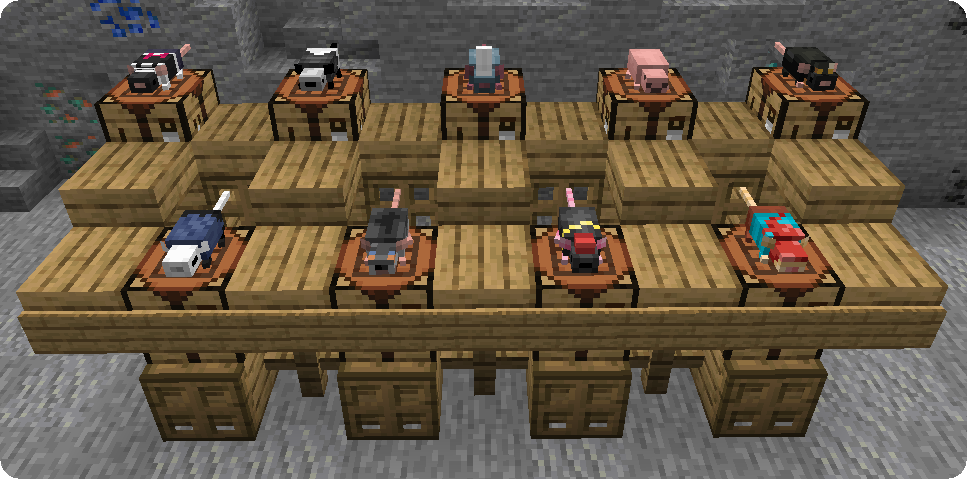
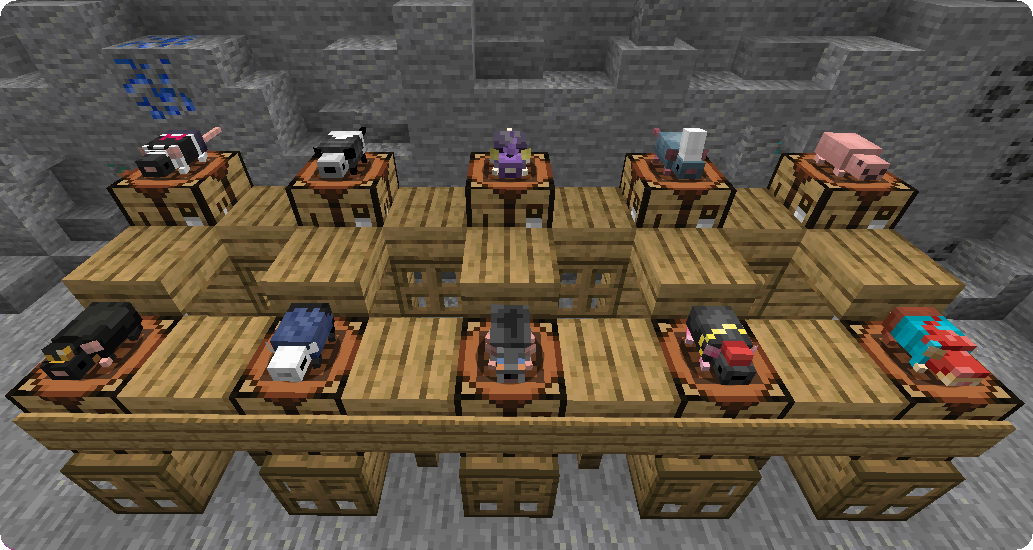
Update the Mischief wiki
Added wild rats, new breeding mechanics and accessory updates

diff --git a/wiki/rats-mischief.md b/wiki/rats-mischief.md
@@ -43,9 +43,19 @@ On the 19th of July, RAT's (doctor4t) birthday, as well as during the following 
 
 ### Types
 
-Rats can spawn in eight different types and also have a few special types that you can acquire by renaming your rats with a nametag.
+##### Natural Rat Types
 
-##### Natural Types
+Naturally spawning rats will always be either a Wild Rat or a Golden Rat.
+
+- **Wild Rat**
+- **Golden** (spawn chance of 1 in 150)
+
+![Natural Rat Types](rats-mischief/NaturalRatTypes.png) 
+
+##### Pet Rat Types
+
+Pet rats can only be obtained by breeding wild rats. Their offsprings will then be 1 of the 7 pet rat types:
+
 - **Albine**
 - **Grey**
 - **Husky**
@@ -53,38 +63,51 @@ Rats can spawn in eight different types and also have a few special types that y
 - **Light Brown**
 - **Chocolate**
 - **Black**
-- **Golden** (spawn chance of 1 in 150)
 
-![Natural Rat Types](rats-mischief/NaturalRatTypes.png){: .wiki}
+![Pet Rat Types](rats-mischief/PetRatTypes.png)
 
-##### Special Types
+##### Special Rat Types
+
+Renaming rats with the following names will give them a new, special appearance both with and without [elytrat](#elytrats).
 
 - **doctor4t** (mod creator)
+
 - **Arathain** (texture artist)
 
+- **Astron/Astronyu** (artist)
+
 - **Remy** (Ratatouille)
+
 - **Ratater** (Botania)
+
 - **Jorato** (JoJo's Bizarre Adventure)
+
 - **Hollow Rat** (Hollow Knight)
+
 - **Jerma** (Jermas Rat Movie)
+
 - **Biggie Cheese**
+
 - **Rateline** (Madeline, Celeste)
-- **Rat Kid** (with 16 variants for each minecraft dye, can be redyed just like sheep, A Hat in Time)
 
-![Special Rat Types](rats-mischief/SpecialRatTypes.png){: .wiki}
+- **Rat Kid** (A Hat in Time)
 
-![Rat Kid Types](rats-mischief/RatKidTypes.png){: .wiki}
+  Rat Kids are a special rat type as they can be dyed just like sheep in order to variate their skins, resulting in 16 different versions. Breeding 2 Rat Kids will also spawn a new, unnamed Rat Kid instead of a normal pet rat.
+
+![Special Rat Types](rats-mischief/SpecialRatTypes.png)
+
+![Rat Kid Types](rats-mischief/RatKidTypes.png)
 
 ### Elytrats
 
 Elytrats are a special rat variant, acquired by equipping rats with the elytrat item, crafted as shown below. Equip/unequip a rat by simply shift-using the rat with the elytrat/bare fist. Normal rats will also equip elytrats upon picking them up from the floor.
 
-![Elytrat Recipe](rats-mischief/ElytratRecipe.png){: .wiki}
+![Elytrat Recipe](rats-mischief/ElytratRecipe.png)
 
 Elytrats can and will fly to attack enemies and to follow you on your airborne adventures! Just as any other rat they can be picked up with rat pouches. Elytrats also feature custom elytra textures for special rat variants and the golden rat.
 
-![Elytrat](rats-mischief/Elytrat.png){: .wiki}
-![Elytrat Formation](rats-mischief/ElytratFormation.png){: .wiki}
+![Elytrat](rats-mischief/Elytrat.png)
+![Elytrat Formation](rats-mischief/ElytratFormation.png)
 
 ### Accessories
 
@@ -92,33 +115,33 @@ Elytrats can and will fly to attack enemies and to follow you on your airborne a
 
 When appearing naturally in an empty village or being bred, rats have a 5% chance to spawn with staves in their possession. These staves can be obtained by taming the rats possessing them if they aren't already and are useful to make the rats perform specific tasks. Each staff use orders the rats to execute the corresponding order for 15 seconds, items acquired by the rats will be brought to you and required items can be dropped on the floor for them.
 
-- **Harvest Staff:** Rats harvest any mature crop and replant any cultivatable item on farmland tiles.
+- **Harvest Staff:** Rats harvest any mature crop and replant any cultivatable item on farmland tiles. If given Bone Meal, they will also fertilize crops!
 - **Love Staff:** Rats breed all the animals around them (including themselves) as long as they have the corresponding food.
 - **Collection Staff:** Can be used on blocks to make rats break the corresponding material they come across. Rats can break blocks with a hardness of 1 plus 1 per level of strength that is applied to them. Haste effects boost their mining speed by 20% per level of haste. This order is cancelled by using the staff on the air.
 
 #### Rat Pouches
 
-Rat pouches can be used to quickly gather rats back. Using a pouch on a rat will put that rat inside the pouch. Shift-using an empty rat pouch will gather all rats that the pouch can hold in the vicinity. Shift-using a filled rat pouch releases all rats inside it.
+Rat pouches can be used to quickly gather rats back. Using a pouch on a rat will put that rat inside the pouch. Shift-using an empty rat pouch will gather all rats that the pouch can hold in a 16 block radius. Shift-using a filled rat pouch releases all rats inside it.
 
 Pouches can be crafted like bundles with leather, twisted vines and popped chorus fruit, to produce respectively pouches with a capacity of 5, 10 and 20 rats.
 Rats stored in Pouches won't age, meaning they will keep status effects, health, their variant and names.
 
-![Leather Pouch Recipe](rats-mischief/LeatherPouchRecipe.png){: .wiki}
+![Leather Pouch Recipe](rats-mischief/LeatherPouchRecipe.png)
 
-![Twisted Pouch Recipe](rats-mischief/TwistedPouchRecipe.png){: .wiki}
+![Twisted Pouch Recipe](rats-mischief/TwistedPouchRecipe.png)
 
-![Purpur Pouch Recipe](rats-mischief/PurpurPouchRecipe.png){: .wiki}
+![Purpur Pouch Recipe](rats-mischief/PurpurPouchRecipe.png)
 
 
 #### Mask of Rat
 
-Obtained by either purchasing it for 40 emeralds from a wandering trader, by breeding rats and succeeding on a 0.5% chance of a baby rat wearing it or by killing doctor4t on a multiplayer server, this item has a protection value of just one armour bar but the enchantibility of gold.
+Obtained by either purchasing it for 40 emeralds from a wandering trader, breeding rats and succeeding on a 0.5% chance of a baby rat wearing it or killing doctor4t on a multiplayer server, this item has a protection value of just one armor bar but the enchantibility of gold.
 
-The person wearing this mask will not be able to harm wild or tamed rats and all their status effects as well as the armour and enchantments of the mask will be provided to all tamed rats. This includes positive and negative status effects such as invisibility and hunger.
+The person wearing this mask will not be able to harm wild or tamed rats and all their status effects as well as the armor and enchantments of the mask will be provided to all tamed rats. This includes positive and negative status effects such as invisibility and hunger.
 
 This item can be repaired in an anvil using phantom membranes.
 
-![Mask Of Rat](rats-mischief/MaskOfRat.png){: .wiki}
+![Mask Of Rat](rats-mischief/MaskOfRat.png)
 
 ## FAQ
 
@@ -128,7 +151,7 @@ This item can be repaired in an anvil using phantom membranes.
 
 #### ISN'T THis jUST a RAtS rIp-OFF??
 
-**No**: I have no ties  with Rats, and this mod is a completely different one with a completely  different vision. Rats are amazing creatures, and I'm not of a fan of  how "modded" "Rats" looks and feels, so I went with a more summoner  styled approach as well as aiming to feel Vanilla+. The two mods differ  hugely, and I didn't draw any inspiration from "Rats" as I never played  it and only ever heard of it and the memes. This isn't a Fabric version  of "Rats", nor is this a rip-off. 
+**No**: I have no ties  with Rats, and this mod is a completely different one with a completely different vision. Rats are amazing creatures, and I'm not of a fan of  how "modded" "Rats" looks and feels, so I went with a more summoner styled approach as well as aiming to feel Vanilla+. The two mods differ hugely, and I didn't draw any inspiration from "Rats" as I never played  it and only ever heard of it and the memes. This isn't a Fabric version of "Rats", nor is this a rip-off. 
 
 #### Can you port to Forge please? Backport to version X?
 
@@ -140,8 +163,8 @@ We don't port our mods to forge or backport them for various reasons. If you wan
 
 <blockquote class="twitter-tweet"><p lang="en" dir="ltr">It ain&#39;t much but it&#39;s honest work <a href="https://t.co/vILMVJ3mBn">pic.twitter.com/vILMVJ3mBn</a></p>&mdash; RAT (@doctor4t_) <a href="https://twitter.com/doctor4t_/status/1358888046435958791?ref_src=twsrc%5Etfw">February 8, 2021</a></blockquote>
 <blockquote class="twitter-tweet"><p lang="en" dir="ltr">Rats make fine herbalists too! <a href="https://t.co/OxESLzNmhX">pic.twitter.com/OxESLzNmhX</a></p>&mdash; RAT (@doctor4t_) <a href="https://twitter.com/doctor4t_/status/1359138165672583169?ref_src=twsrc%5Etfw">February 9, 2021</a></blockquote>
-![Flat Rat](https://pbs.twimg.com/media/EskfSUXXMAEmYeG?format=jpg&name=large){: .wiki}
-![Rat Offering](https://pbs.twimg.com/media/EtNNZRyWYAA5CTZ?format=jpg&name=medium){: .wiki}
-![Ratater](https://pbs.twimg.com/media/EttS3IpXMAEv5g2?format=png&name=large){: .wiki}
+![Flat Rat](https://pbs.twimg.com/media/EskfSUXXMAEmYeG?format=jpg&name=large)
+![Rat Offering](https://pbs.twimg.com/media/EtNNZRyWYAA5CTZ?format=jpg&name=medium)
+![Ratater](https://pbs.twimg.com/media/EttS3IpXMAEv5g2?format=png&name=large)
 
-![Rat Party](rats-mischief/RatParty.png){: .wiki}
+![Rat Party](rats-mischief/RatParty.png)
